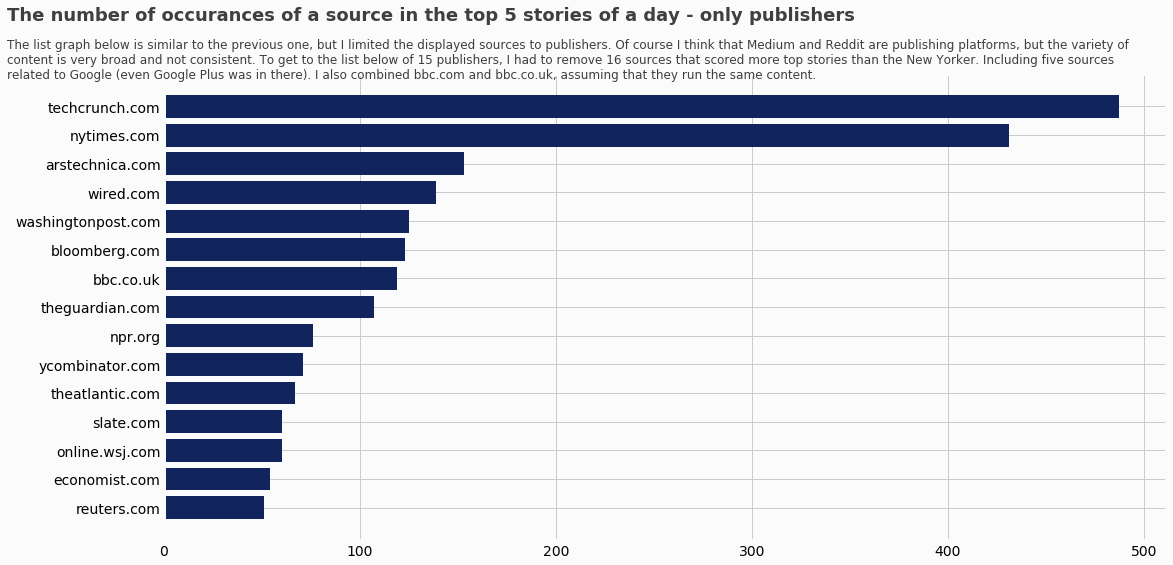
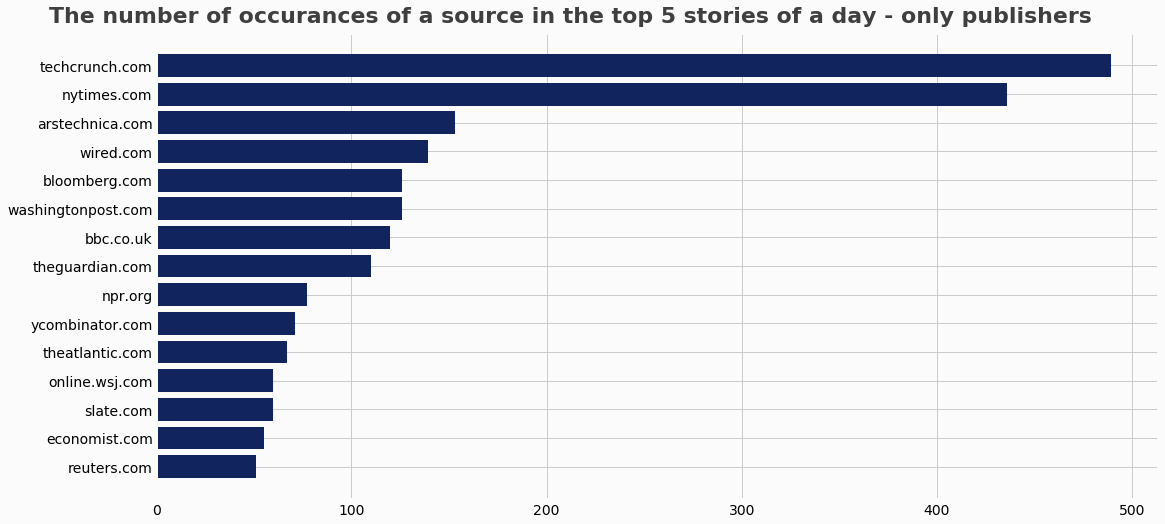
New blog post

diff --git a/content/posts/hacker-news-top-sources.md b/content/posts/hacker-news-top-sources.md
@@ -1,25 +1,24 @@
 ---
 title: "Hacker News Top Sources"
-#date: 2018-02-07T12:00:00+01:00
-date: 2018-12-24T16:01:37+01:00
-draft: true
+date: 2019-02-07T12:00:00+01:00
+draft: false
 tags: [hacker news, data analysis]
 categories: []
 ---
 
-One of the two sites that I visit daily is Hacker News. I saw [this tweet](https://twitter.com/paulg/status/1049723540902215681) by its developer and co-founder of Y Combinator a while back and wondered what the most popular sources are for the top stories on Hacker News.
+One of the two sites that I visit daily is [Hacker News](news.ycombinator.com). I saw [this tweet](https://twitter.com/paulg/status/1049723540902215681) by its developer (and the co-founder of Y Combinator) a while back and wondered what the most popular sources are for the top posts on Hacker News. Today marks the anniversary of the second launch, so no better time for this blogpost.
 
-[!(/figures/hacker-news-blog-inspiration.png)](/figures/hacker-news-blog-inspiration.png "Tweet by Paul Graham") 
+![https://raw.githubusercontent.com/uijl/uijl.github.io_blog/master/figures/hacker-news-blog-inspiration.png](https://raw.githubusercontent.com/uijl/uijl.github.io_blog/master/figures/hacker-news-blog-inspiration.png "Tweet by Paul Graham")
 
-The all-time top stories can be found via a very simple [search](https://hn.algolia.com/?q=&query=&sort=byPopularity&prefix&page=0&dateRange=all&type=story), an empy query sorted by popularity over all time. But because Hacker News is becoming more popular over time, the most popular sources will be skewed towards more recent posts. Therefore I thought it might be more interesting to see what most common sources are if I gather the top 5 daily stories since the beginning.
+The all-time top posts can be found via a very simple [search](https://hn.algolia.com/?q=&query=&sort=byPopularity&prefix&page=0&dateRange=all&type=story), an empy query sorted by popularity over all time. But because the popularity of Hacker News has increased over time, the more popular sources will be skewed towards more recent posts. Therefore I thought it might be more interesting to see what most frequent sources are if I gather the top 5 daily stories since the start of the site.
 
-### Top stories
+### Top posts per day
 
-As we can see from the tweet by Paul Graham Hacker News started on 2006-10-09. At first I tried finding the top 5 stories per day, because that was my goal. However, I noticed that I missed some noteworthy datapoints (the death of Steven Hawking for example). Therefore I tried again by finding the top stories per 12 hours, now I did seem to capture all the data.
+As we can see from the tweet by Paul Graham, Hacker News started on 2006-10-09. At first I tried finding the top 5 stories per day, because that was my goal. However, I noticed that I missed some noteworthy datapoints (the death of Steven Hawking for example). Therefore I tried again by finding the top stories per 12 hours, now I did seem to capture all the data.
 
-[!(/figures/hacker-news-blog-top5-stories-per-month.png)](/figures/hacker-news-blog-top5-stories-per-month.png "Number of comments for the top 5 stories every month")
+![https://raw.githubusercontent.com/uijl/uijl.github.io_blog/master/figures/hacker-news-blog-top5-stories-per-month.png](https://raw.githubusercontent.com/uijl/uijl.github.io_blog/master/figures/hacker-news-blog-top5-stories-per-month.png "Number of comments for the top 5 stories every month")
 
-The graph above shows the average number of points for the top 5 stories (the blue line) and the bound of the number of points of the most popular daily post and the fifth popular daily post. As I expected, there is a clear trend in higher points for more recent posts. There are three distinctive peaks, the top 3 posts of all time:
+The graph above shows the average number of points for the top   5 stories (the blue line) and the bound of the number of points of the most popular daily post and the fifth popular daily post. As I expected, there is a clear trend in higher points for more recent posts. There are three distinctive peaks, the top 3 posts of all time:
 
 1. The death of Steve Jobs ([2011-10-05](https://www.apple.com/stevejobs/))
 2. The note from Apple on data protection ([2016-02-16](https://www.apple.com/customer-letter/))
@@ -29,20 +28,14 @@ The graph above shows the average number of points for the top 5 stories (the bl
 
 Now that we have the list of the top 5 posts per day, we can extract the most common sources of these posts. It is fun to see that (on average) the most popular posts have no URL, these are "Ask HN" posts. I understand why the "Ask HN" posts are so popular, the questions are often relevant for a large number of people and there is an intelligent and diverse community on Hacker News. The second position is held by Github, often "Show HN" posts, used for both launching new projects and asking feedback.
 
-The highest ranking publishers, by far, are The New York Times and TechCrunch. 
+The highest ranking publishers, by far, are The New York Times and TechCrunch as we can see below. I wonder if this is related to quality or exclusives.
 
-[!(/figures/hacker-news-blog-top-sources-per-month.png)](/figures/hacker-news-blog-top-sources-per-month.png "Top 20 sources based on the top stories every month")
+![https://raw.githubusercontent.com/uijl/uijl.github.io_blog/master/figures/hacker-news-blog-top-sources-per-month.png](https://raw.githubusercontent.com/uijl/uijl.github.io_blog/master/figures/hacker-news-blog-top-sources-per-month.png "Top 20 sources based on the top stories every month")
 
 ### Top publishers
 
-To obtain the list below I had to remove 16 sources that scored a higher number of top stories than the New Yorker. Including five sources related to Google (even Google Plus was in the list). I also combined bbc.com and bbc.co.uk, assuming that they run the same content.
+To obtain the list below I had to remove 17 sources that scored a higher number of top stories than Reuters. Including five sources related to Google (even Google Plus was in the list). I also combined bbc.com and bbc.co.uk, assuming that they run the same content.
 
-[!(/figures/hacker-news-blog-top-publishers-per-month.png)](/figures/hacker-news-blog-top-publishers-per-month.png "Top 20 publishers based on the top stories every month")
+The top sources also included two personal websites: the website of the founder of [Hacker News](https://news.ycombinator.com) [Paul Graham](https://http://paulgraham.com/) and the website of the founder of [Stack Overflow](https://stackoverflow.com/) [Jeff Atwood](https://blog.codinghorror.com/).
 
-### Top scores
-
-Text - sources with highest scores
-
-### Top scores per post
-
-Text - sources with highest score per post
+![https://raw.githubusercontent.com/uijl/uijl.github.io_blog/master/figures/hacker-news-blog-top-publishers-per-month.png](https://raw.githubusercontent.com/uijl/uijl.github.io_blog/master/figures/hacker-news-blog-top-publishers-per-month.png "Top 20 publishers based on the top stories every month")

diff --git a/content/reading.md b/content/reading.md
@@ -10,18 +10,23 @@ I plan to keep a list of the books I have read since past year.
 
 ### 2019
 
-I have not finished any book yet, but I am reading the following:
+I am reading the following book:
 
-- [The Black Swan - Nassim Nicholas Taleb.](https://www.goodreads.com/book/show/242472.The_Black_Swan) I find it hard to get through this book, but I enjoy the insights and the way of thinking that Taleb presents.
+- [**Rich Dad, Poor Dad - Robert Kiyosaki.**](https://www.goodreads.com/book/show/69571.Rich_Dad_Poor_Dad) On his podcast the author seems to be very arrogant, I do not know yet if his book will be similar.
+
+I have finished only one book yet:
+
+- [**The Richest man in Babylon - George Clason.**](https://www.goodreads.com/book/show/82101.Richest_Man_in_Babylon_and_The_Magic_Story) Both this book and Rich Dad, Poor Dad get recommended often if you want to learn more about becom financially independent, but I do not find it that insightfull. It basically comes down to three things: Do not spend more than you earn / have, Save at least 10% of income, Make your money work for you.
+- [**The Black Swan - Nassim Nicholas Taleb.**](https://www.goodreads.com/book/show/242472.The_Black_Swan) I enjoy the insights and the way of thinking that Taleb presents.
 
 ### 2018
 
 Unfortunately this list is not as long as I hoped it would be.
 
-- [Sapiens - Yuval Noah Hariri.](https://www.goodreads.com/book/show/23692271-sapiens) I read this Book, just like everyone else. But unlike most people, I found it kind of hard to get through.
-- [Moneyball - Michael Lewis.](https://www.goodreads.com/book/show/1301.Moneyball) I like the books by Michael Lewis, I have read two books by him this year.
-- [Born a Crime - Trevor Noah.](https://www.goodreads.com/book/show/29780253-born-a-crime) Loved it. 
-- [Liar's Poker - Michael Lewis.](https://www.goodreads.com/book/show/7865083-liar-s-poker) The second book of Michael Lewis that I read in 2018.
-- [The Sellout - Paul Beatty.](https://www.goodreads.com/book/show/22237161-the-sellout) I do not think that I understood it. It was very fun, and I love satire, but I feel like I missed something.
-- [Against the Gods - Peter Bernstein.](https://www.goodreads.com/book/show/128429.Against_the_Gods) Interesting book on the definiting of risk and probability throughout the modern times.
-- [Origin - Dan Brown.](https://www.goodreads.com/book/show/32283133-origin) The only true novel I read this year. I always like to books by Dan Brown, with recurring patterns of symbolics and art history.
+- [**Sapiens - Yuval Noah Hariri.**](https://www.goodreads.com/book/show/23692271-sapiens) I read this Book, just like everyone else. But unlike most people, I found it kind of hard to get through.
+- [**Moneyball - Michael Lewis.**](https://www.goodreads.com/book/show/1301.Moneyball) I like the books by Michael Lewis, I have read two books by him this year.
+- [**Born a Crime - Trevor Noah.**](https://www.goodreads.com/book/show/29780253-born-a-crime) Loved it.
+- [**Liar's Poker - Michael Lewis.**](https://www.goodreads.com/book/show/7865083-liar-s-poker) The second book of Michael Lewis that I read in 2018.
+- [**The Sellout - Paul Beatty.**](https://www.goodreads.com/book/show/22237161-the-sellout) I do not think that I understood it. It was very fun, and I love satire, but I feel like I missed something.
+- [**Against the Gods - Peter Bernstein.**](https://www.goodreads.com/book/show/128429.Against_the_Gods) Interesting book on the definiting of risk and probability throughout the modern times.
+- [**Origin - Dan Brown.**](https://www.goodreads.com/book/show/32283133-origin) The only true novel I read this year. I always like to books by Dan Brown, with recurring patterns of symbolics and art history.

diff --git a/content/posts/benefit-of-scoring-right-before-the-break.md b/content/posts/benefit-of-scoring-right-before-the-break.md
@@ -12,7 +12,7 @@ Although I understand the logic behind this reasoning, I have never seen data th
 
 ### Scraping UEFA.com
 
-The [first Champions League match ever played](https://www.uefa.com/uefachampionsleague/history/season=1992/matches/round=46/match=6199/events/index.html "First Champions League match") was between *KI Klaksvik* and *Skonto Riga*. I'll admit that I had never ever heard from those teams. In order to see whether there is an advantage in scoring right before the break we need to know from every goal in what minute is was scored and by which team. The final score was 1-3 and scraping the webpage should therefore result in something similar as the table below. I want to know which period each goal is to distinguish between *45 + 1'* (added time first half) and *46'* (first minute second half).
+The [first Champions League match ever played](https://www.uefa.com/uefachampionsleague/history/season=1992/matches/round=46/match=6199/events/index.html "First Champions League match") was between *KI Klaksvik* and *Skonto Riga*. I'll admit that I had never ever heard from those teams. In order to see whether there is an advantage in scoring right before the break we need to know from every goal in what minute it was scored and by which team. The final score was 1-3 and scraping the webpage should therefore result in something similar as the table below. I want to know which period each goal is to distinguish between *45 + 1'* (added time first half) and *46'* (first minute second half).
 
 | Team | Minute | Period      |
 |:---- |-------:|:----------- |
